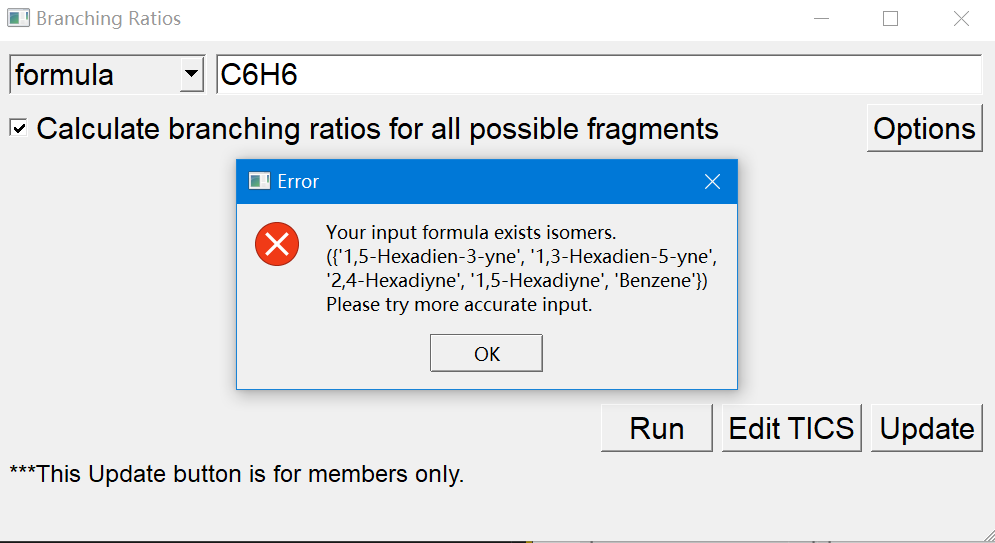
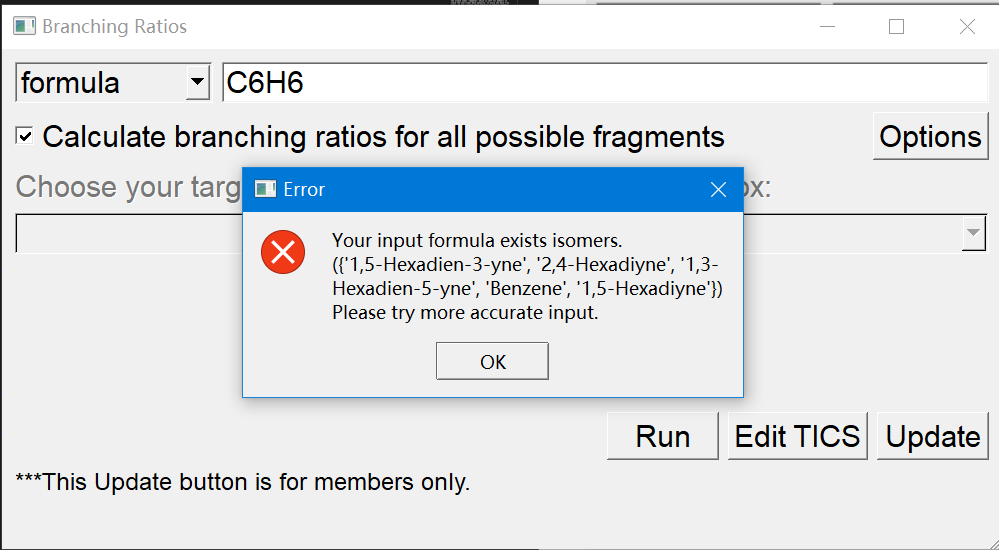
update the functions for isomers

diff --git a/SDIC Project/main_ui.py b/SDIC Project/main_ui.py
@@ -14,13 +14,22 @@ class Branching_Ratios(QtWidgets.QMainWindow):
         self.ui.MoleculeEdit.returnPressed.connect(self.show_results)
         self.ui.comboBox.addItems(['name', 'cas number', 'formula'])
         self.ui.UpdateButton.clicked.connect(self.open_temp)    
-        self.ui.editTICS.clicked.connect(self.open_TICS)    
+        self.ui.editTICS.clicked.connect(self.open_TICS)
+        self.ui.label_isomer.setEnabled(False)
+        self.ui.comboBox_isomer.setEnabled(False)# this widget will be enabled when isomers exist for formula input    
 
     def run(self):
         '''Firstly check the status of user input and build connection to database'''
         checked = self.ui.ComputeRatios.isChecked()
         input = self.ui.MoleculeEdit.text()
         text = self.ui.comboBox.currentText()
+        isomer_choice = self.ui.comboBox_isomer.currentText()
+        if isomer_choice != '' and isomer_choice != 'Not isomers':
+            input = isomer_choice
+            text = 'name'
+        elif isomer_choice == 'Not isomers':# User wish to try another input
+            self.ui.comboBox_isomer.clear()
+            self.ui.comboBox_isomer.setEnabled(False)
         if text == 'cas number':# some CAS number is empty in current database
             molecule, cas_exist = translate_cas(input)
             if cas_exist == 0:
@@ -39,6 +48,11 @@ class Branching_Ratios(QtWidgets.QMainWindow):
                 QtWidgets.QMessageBox.critical(self.ui,
                 'Error',
                 f"Your input formula exists isomers.\n({set(list_formula)}) \nPlease try more accurate input.")
+                self.ui.label_isomer.setEnabled(True)
+                self.ui.comboBox_isomer.setEnabled(True)
+                self.ui.comboBox_isomer.addItem('Not isomers')
+                for isomer in set(list_formula):# add isomers to combo box for further choices
+                    self.ui.comboBox_isomer.addItem(isomer)
                 raise ValueError("Your input formula exists isomers. Please try more accurate input.")
         else:
             molecule = str(input)
@@ -388,6 +402,8 @@ class show_temp(QtWidgets.QDialog):
     def deleteLine(self):
         currentRow = self.ui.showTable.currentRow()
         self.ui.showTable.removeRow(currentRow)
+        self.ui.showTable.update()
+
 
     def deleteTable(self):
         energy_level = self.ui.energyOption.currentText()
@@ -396,6 +412,7 @@ class show_temp(QtWidgets.QDialog):
         cursor = con.cursor()
         cursor.execute(f"DROP table if exists '{energy_level}'")
         con.close()
+        self.ui.showTable.clearContents()
 
 class identity(QtWidgets.QWidget):
     '''This is left for checking identity of users to block users from edit current database directly.'''
